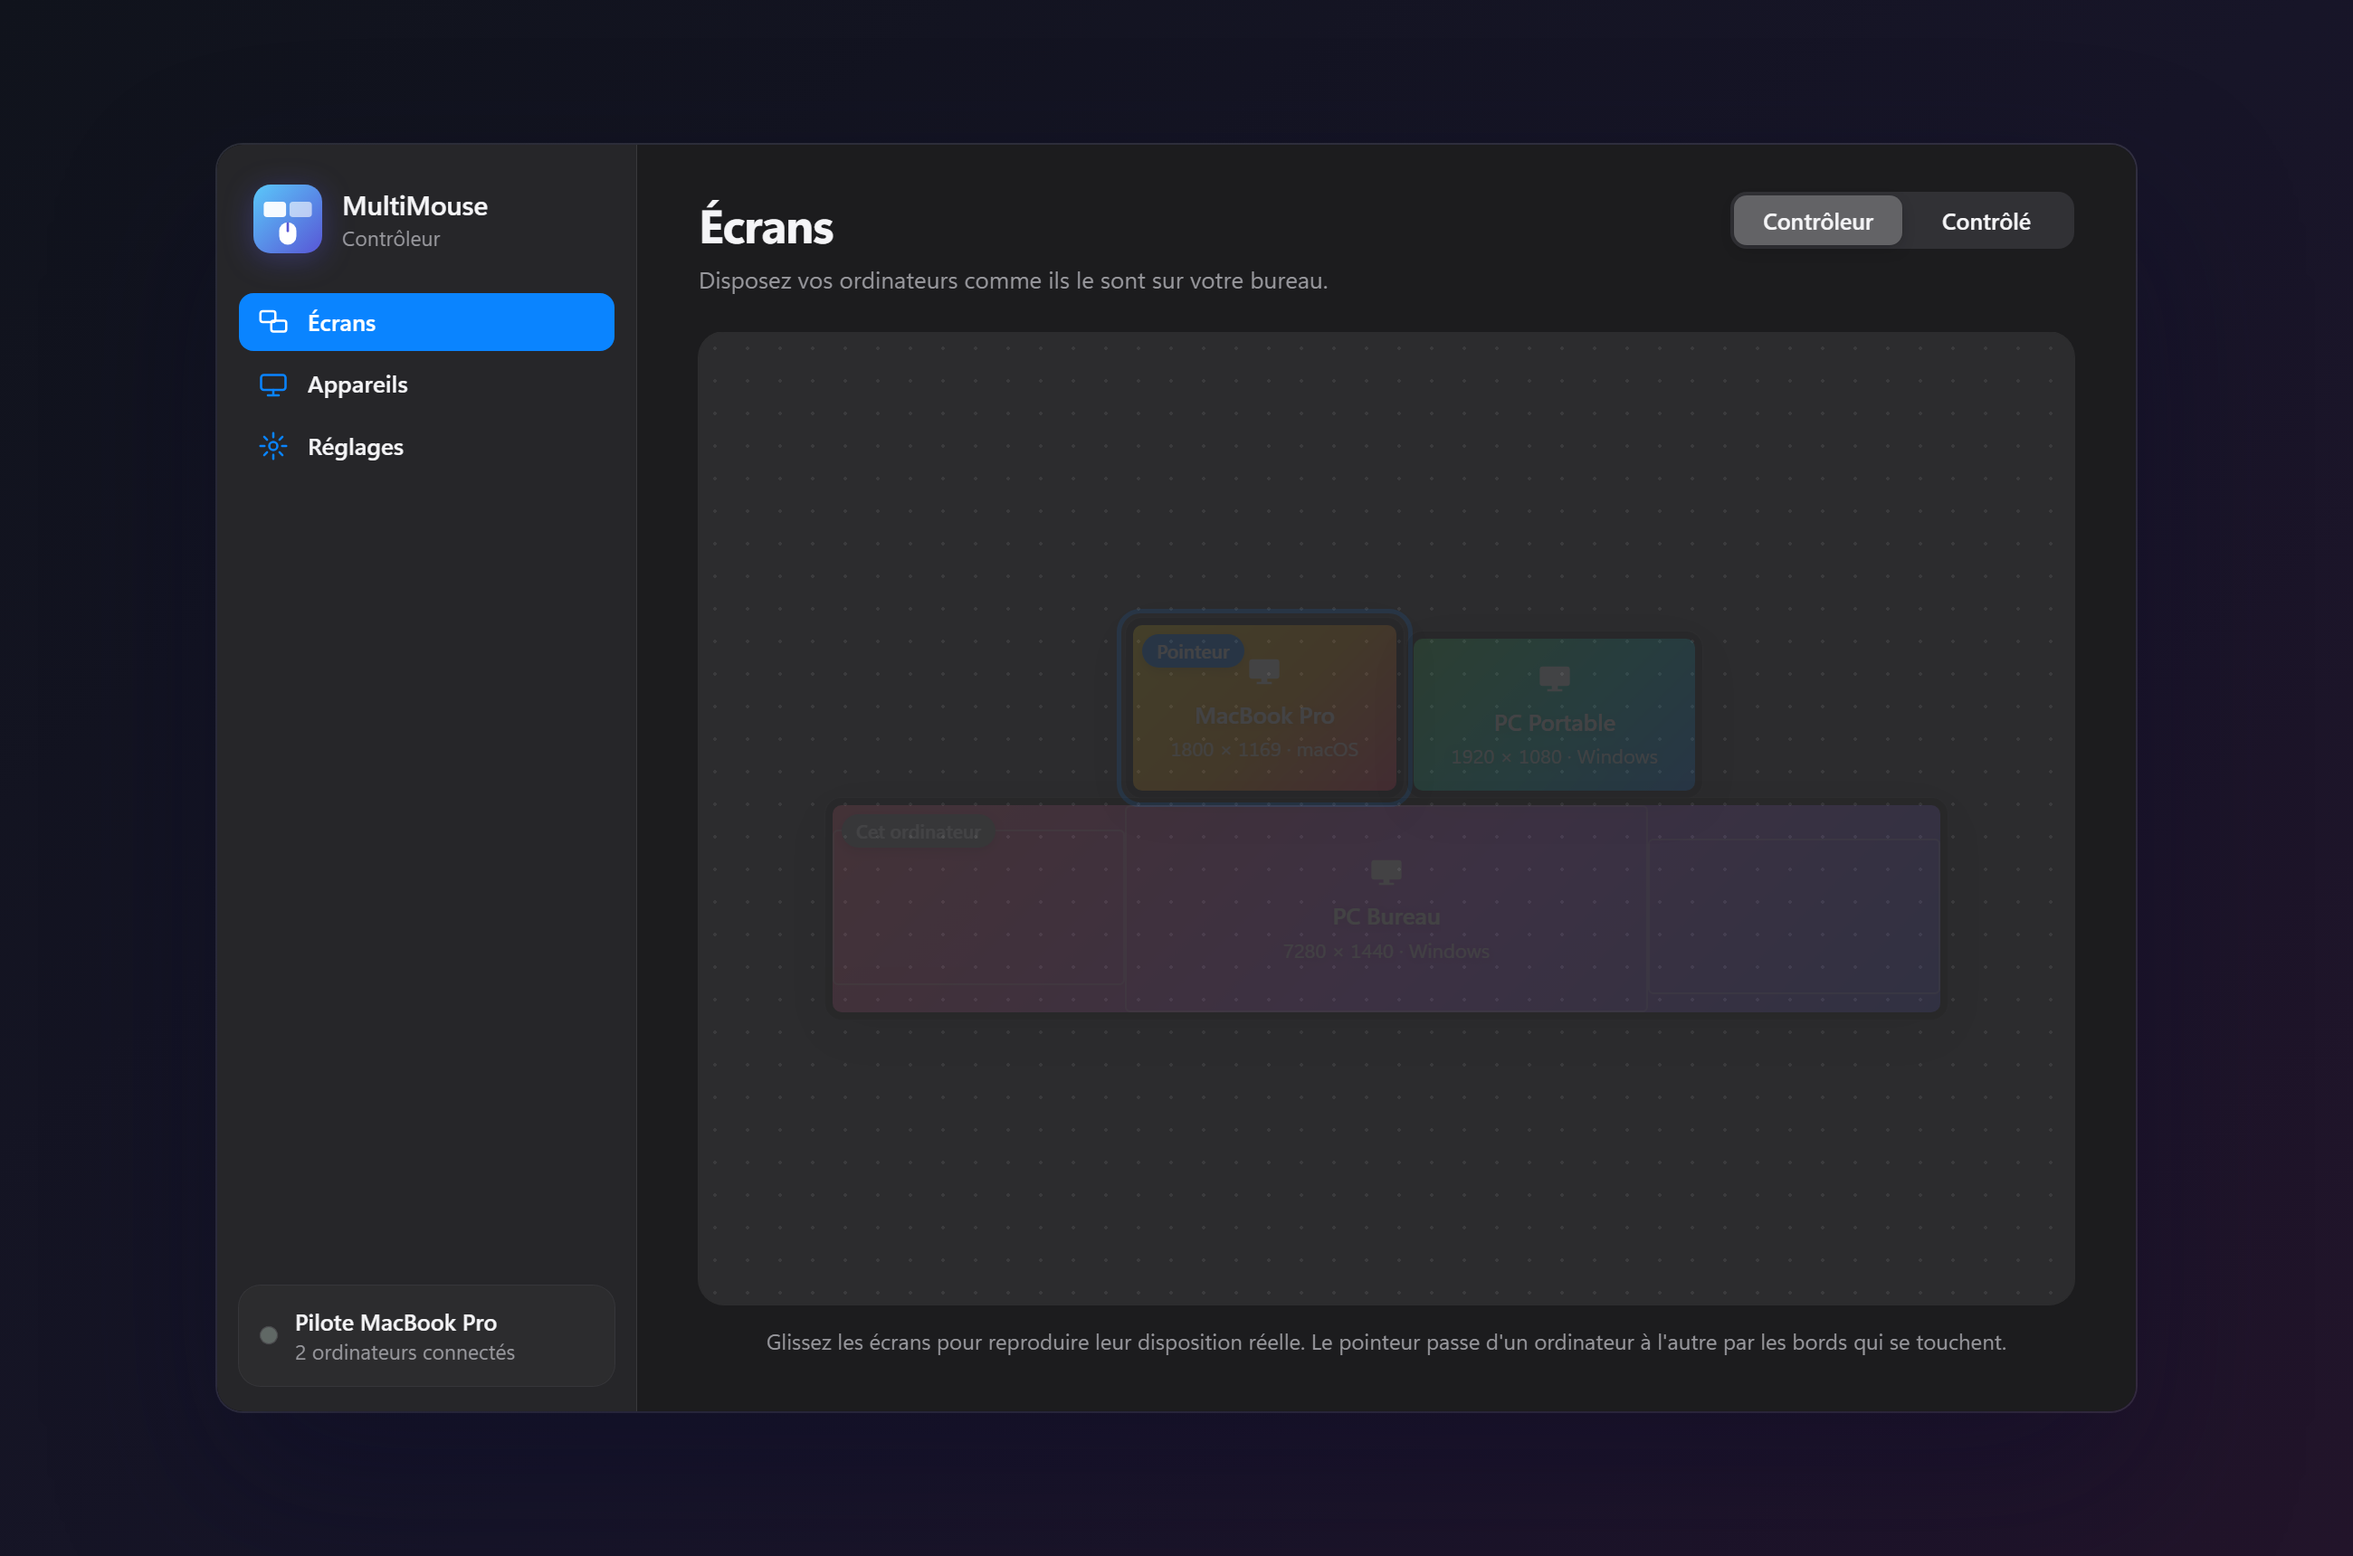
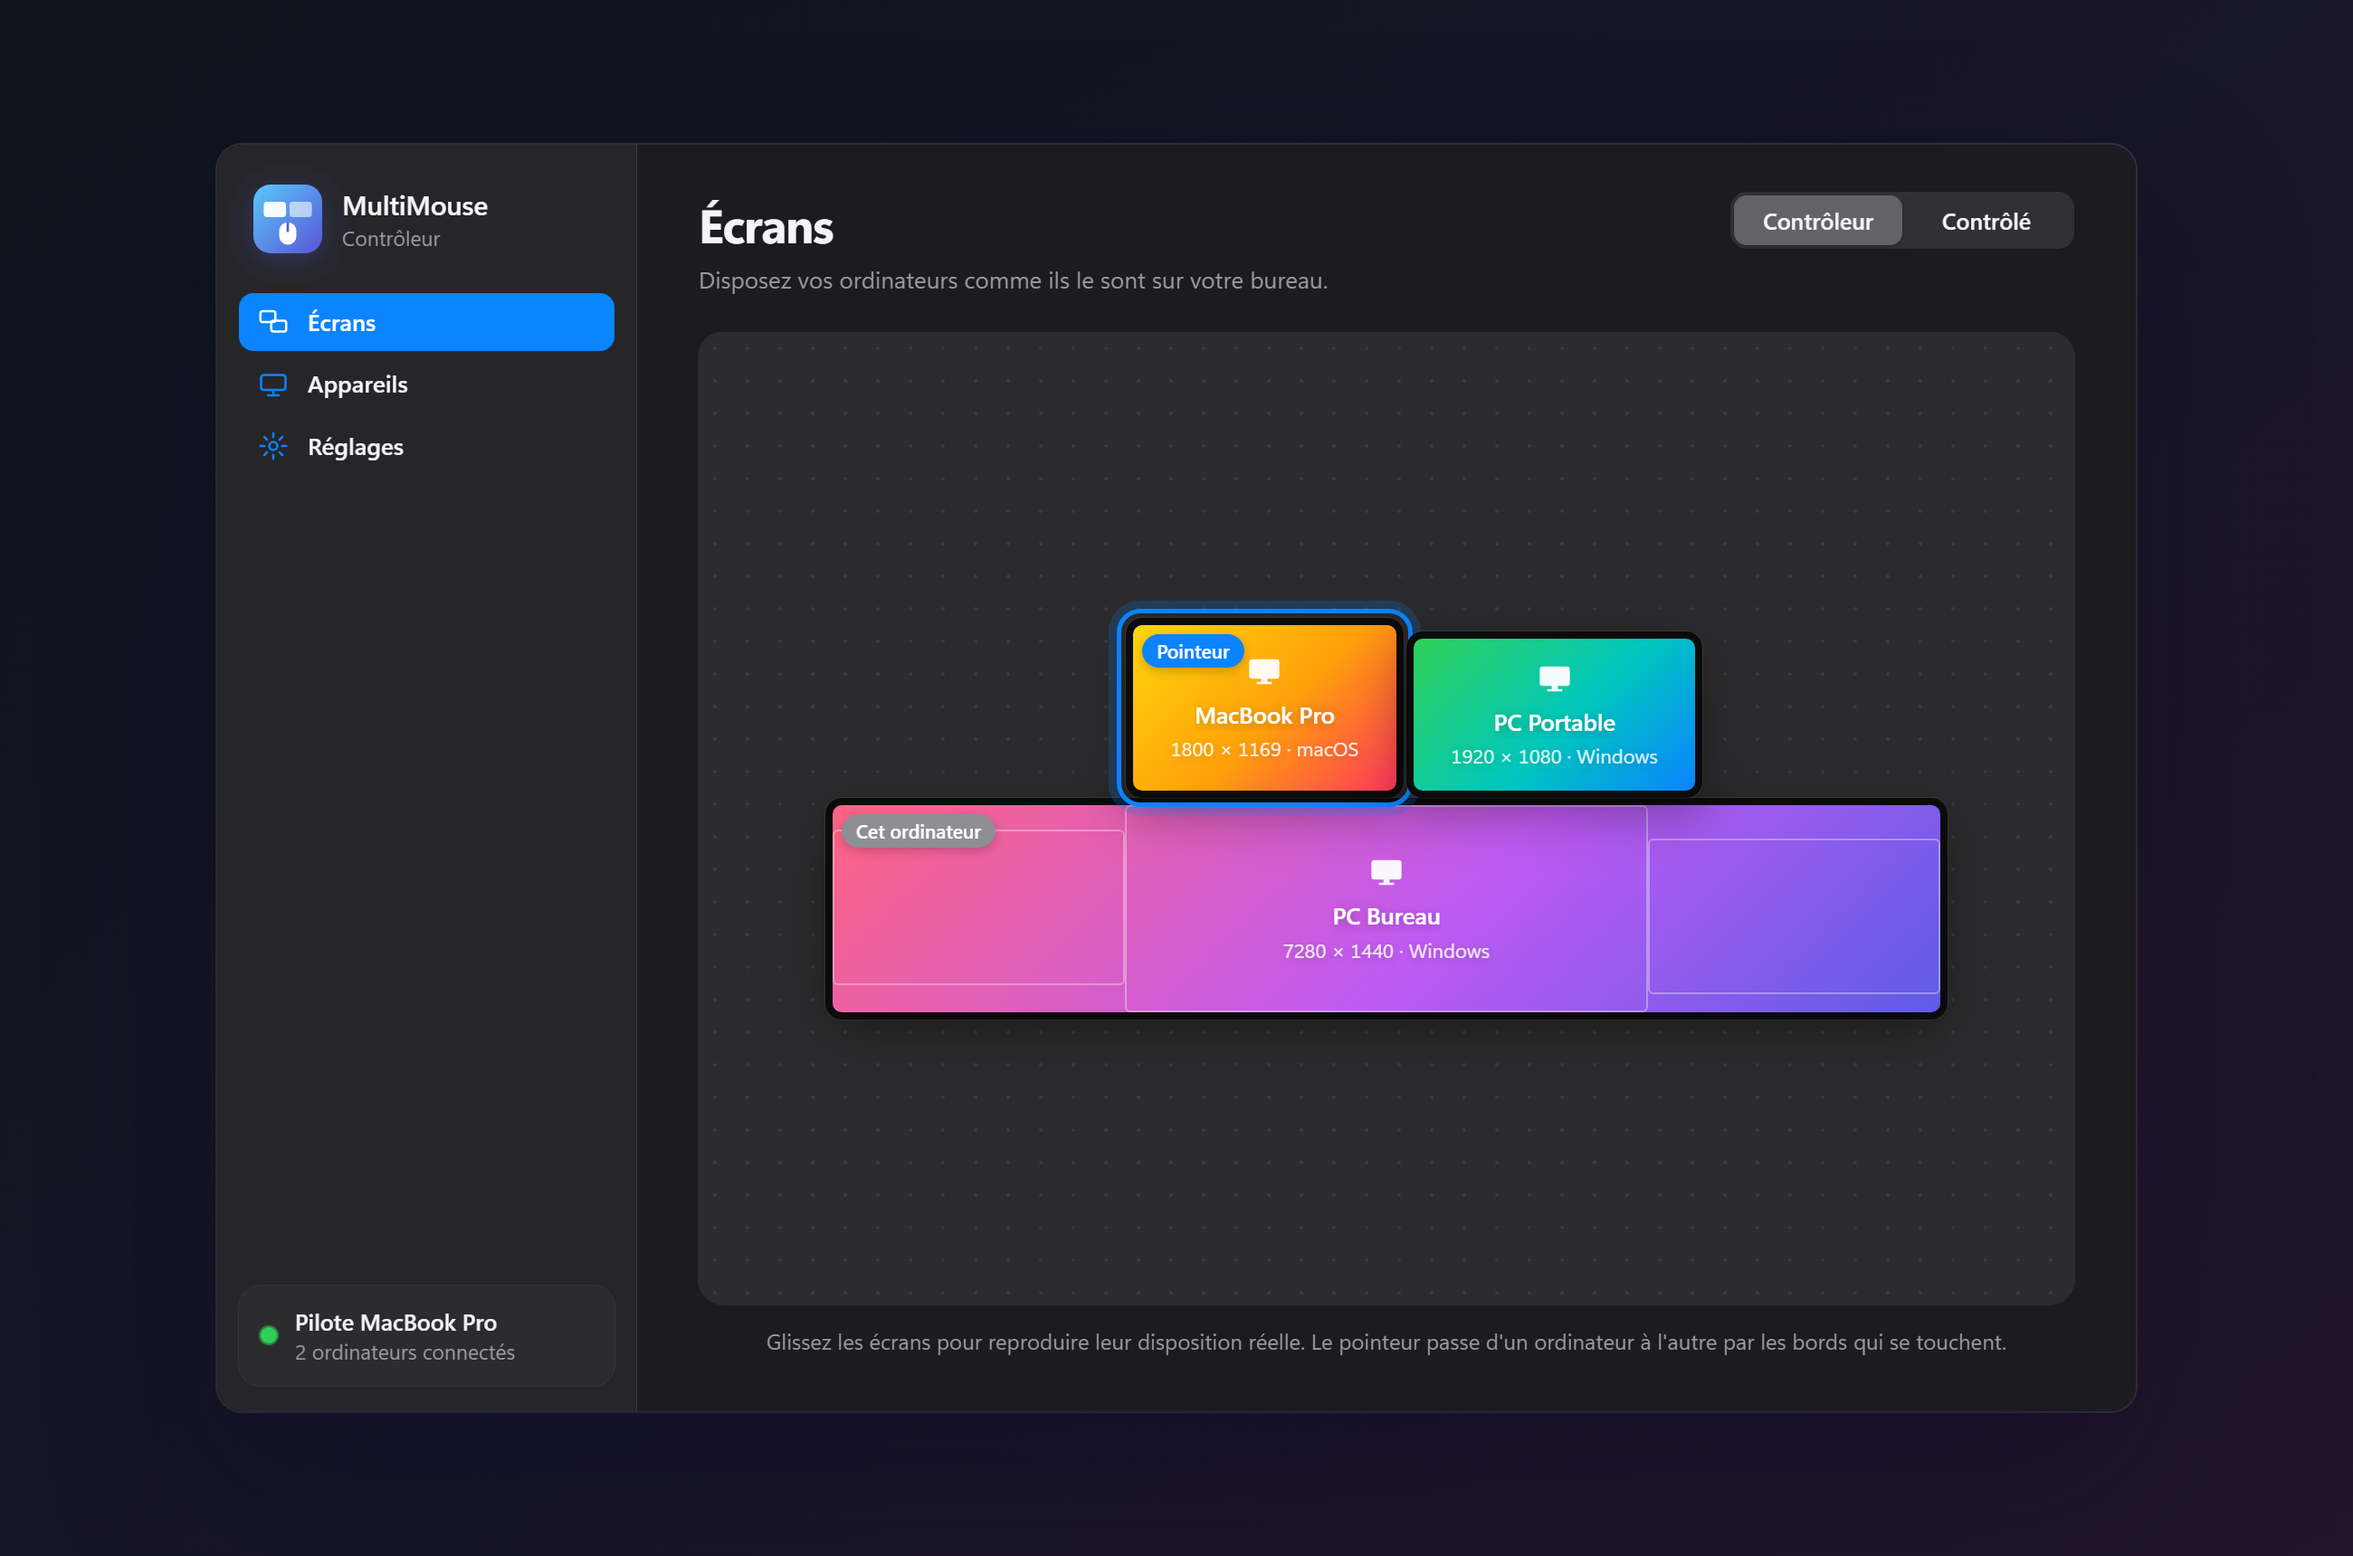
README: re-render dark screenshots (screens were washed out)
Rewriting the dark-mode media rules left the layout tiles half transparent.
Dark captures now rely on Chrome's --force-dark-mode only.

Changed region(s): [[0.3427, 0.3698, 0.8412, 0.6779]]

diff --git a/tools/shot.html b/tools/shot.html
@@ -23,7 +23,7 @@
 const q = new URLSearchParams(location.search);
 const role = q.get("role") || "server";
 const base = {
-  version: "1.0.3", os: q.get("os") || "windows", id: "pc", name: "PC Bureau", code: "K7M4QX", port: 24800,
+  version: "1.0.7", os: q.get("os") || "windows", id: "pc", name: "PC Bureau", code: "K7M4QX", port: 24800,
   server_host: "", clipboard: true, swap_ctrl_cmd: true, speed: 1.2, role, permissions: null,
 };
 const server = {
@@ -51,12 +51,12 @@ function forceTheme(doc, theme) {
       const r = rules[i];
       // not instanceof: the iframe has its own CSSMediaRule class
       if (!r.media || !/prefers-color-scheme/.test(r.media.mediaText)) continue;
-      if (theme === "light") sheet.deleteRule(i);
+      if (theme === "light") sheet.deleteRule(i);  // dark: Chrome runs with --force-dark-mode
       else { const css = [...r.cssRules].map((x) => x.cssText).join("\n"); sheet.deleteRule(i); sheet.insertRule(`@media all { ${css} }`, i); }
     }
   }
 }
-const theme = q.get("theme");
+const theme = q.get("theme") === "light" ? "light" : null;
 if (theme) forceTheme(document, theme);
 document.getElementById("app").addEventListener("load", (e) => {
   const w = e.target.contentWindow;
